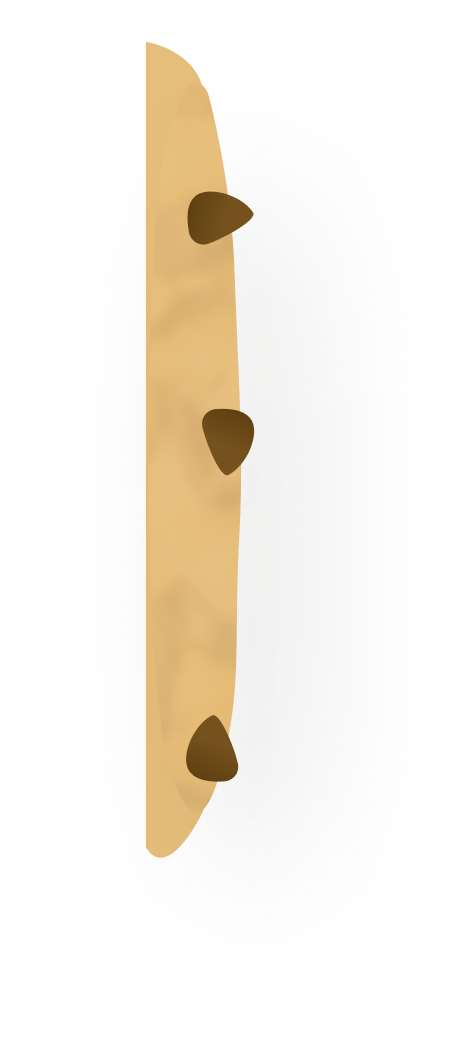
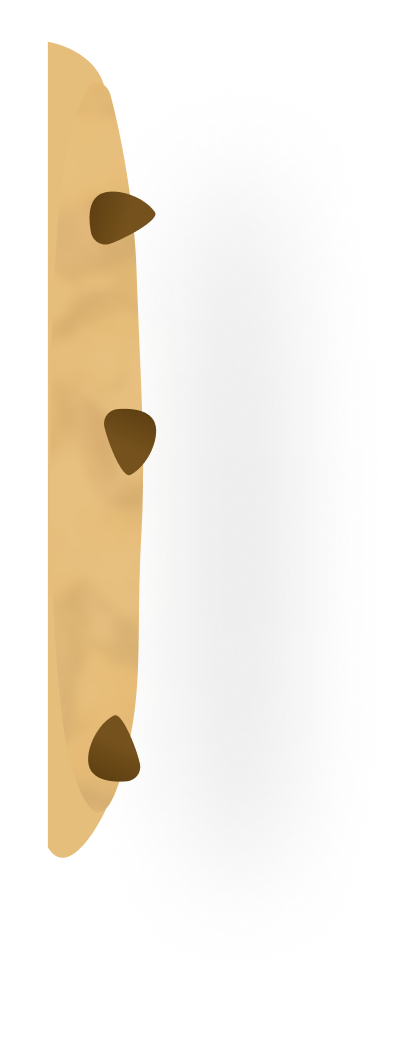
apparent bug

Changed region(s): [[0.1191, 0.0304, 0.5658, 0.8213]]

diff --git a/src/Customization.js b/src/Customization.js
@@ -9,9 +9,7 @@ class Customization extends React.Component {
     constructor(props) {
      super(props);
      this.state = {
-       pointerLocation: {marginLeft: "37.5%"},
-       cookieHeight: {width: "auto"},
-       cookieSpread: {height:"20em", width:"auto"},
+
      };
    }
 
@@ -215,8 +213,8 @@ render(){
 
     </div>
       <div class="customizationImages">
-        <img src={cookieImg} style={this.state.cookieSpread}/>
-        <img src={cookieSideViewImg} style={this.state.cookieHeight}/>
+        <img src={cookieImg} style={this.props.cookieData.cookieSpread}/>
+        <img src={cookieSideViewImg} style={this.props.cookieData.cookieHeight}/>
       </div>
       </div>
       <div class="customizationBar">
@@ -224,7 +222,7 @@ render(){
         <div class="customizationLine"></div>
         <div class="customizationDivider"></div>
 
-        <div class="customizationPointer" style={this.state.pointerLocation}></div>
+        <div class="customizationPointer" style={this.props.cookieData.pointerLocation}></div>
 
         <div>
         <table>
@@ -234,7 +232,7 @@ render(){
 
 
     </div>
-    
+
   );
 }
 }

diff --git a/src/App.js b/src/App.js
@@ -51,7 +51,11 @@ class App extends React.Component {
         bakingpowder: "0",
         temp: "0",
         time: "0",
-        score: 10,
+        score: 9,
+        pointerLocation: {marginLeft: "37.5%"},
+        cookieHeight: {width: "auto", marginLeft: "18em"},
+        cookieSpread: {height:"18em", width:"auto"},
+
      };
    }
 
@@ -99,8 +103,15 @@ class App extends React.Component {
       let attr = attrs[i]
       newScore += parseInt(this.state[attr])
     }
+    let newPosition =  newScore * (75/18);
+    let newMarginLeft = {marginLeft: newPosition + "%"};
+    let newCookieHeight = {width: Math.pow(newScore, .5) + "em", marginLeft:"18em", height:(newScore*2)+"em", marginTop:"-"+(newScore-9)+"em"};
+    let newCookieSpread = {height:(newScore*2)+"em", width:"auto", marginLeft:"-"+(newScore-9)+"em", marginTop:"-"+(newScore-9)+"em"}
     this.setState({
       score: newScore,
+      pointerLocation: newMarginLeft,
+      cookieHeight: newCookieHeight,
+      cookieSpread: newCookieSpread,
     })
 
 

diff --git a/src/App.css b/src/App.css
@@ -244,6 +244,7 @@ button:hover{
   display:block;
   float:right;
   padding-left: 8em;
+  padding-top: 3em;
   box-sizing: border-box;
   padding-bottom: 8em;
 }
@@ -267,7 +268,9 @@ button:hover{
 }
 
 .customizationImages img{
-  height: 20em;
+  height: 18em;
+  position: absolute;
+  transition: .4s ease-in-out;
 }
 
 .customizationPointer{
@@ -278,6 +281,7 @@ button:hover{
   margin-top: -30px;
   position: relative;
   z-index: 999;
+  transition: .2s ease-in-out;
 }
 
 table{
